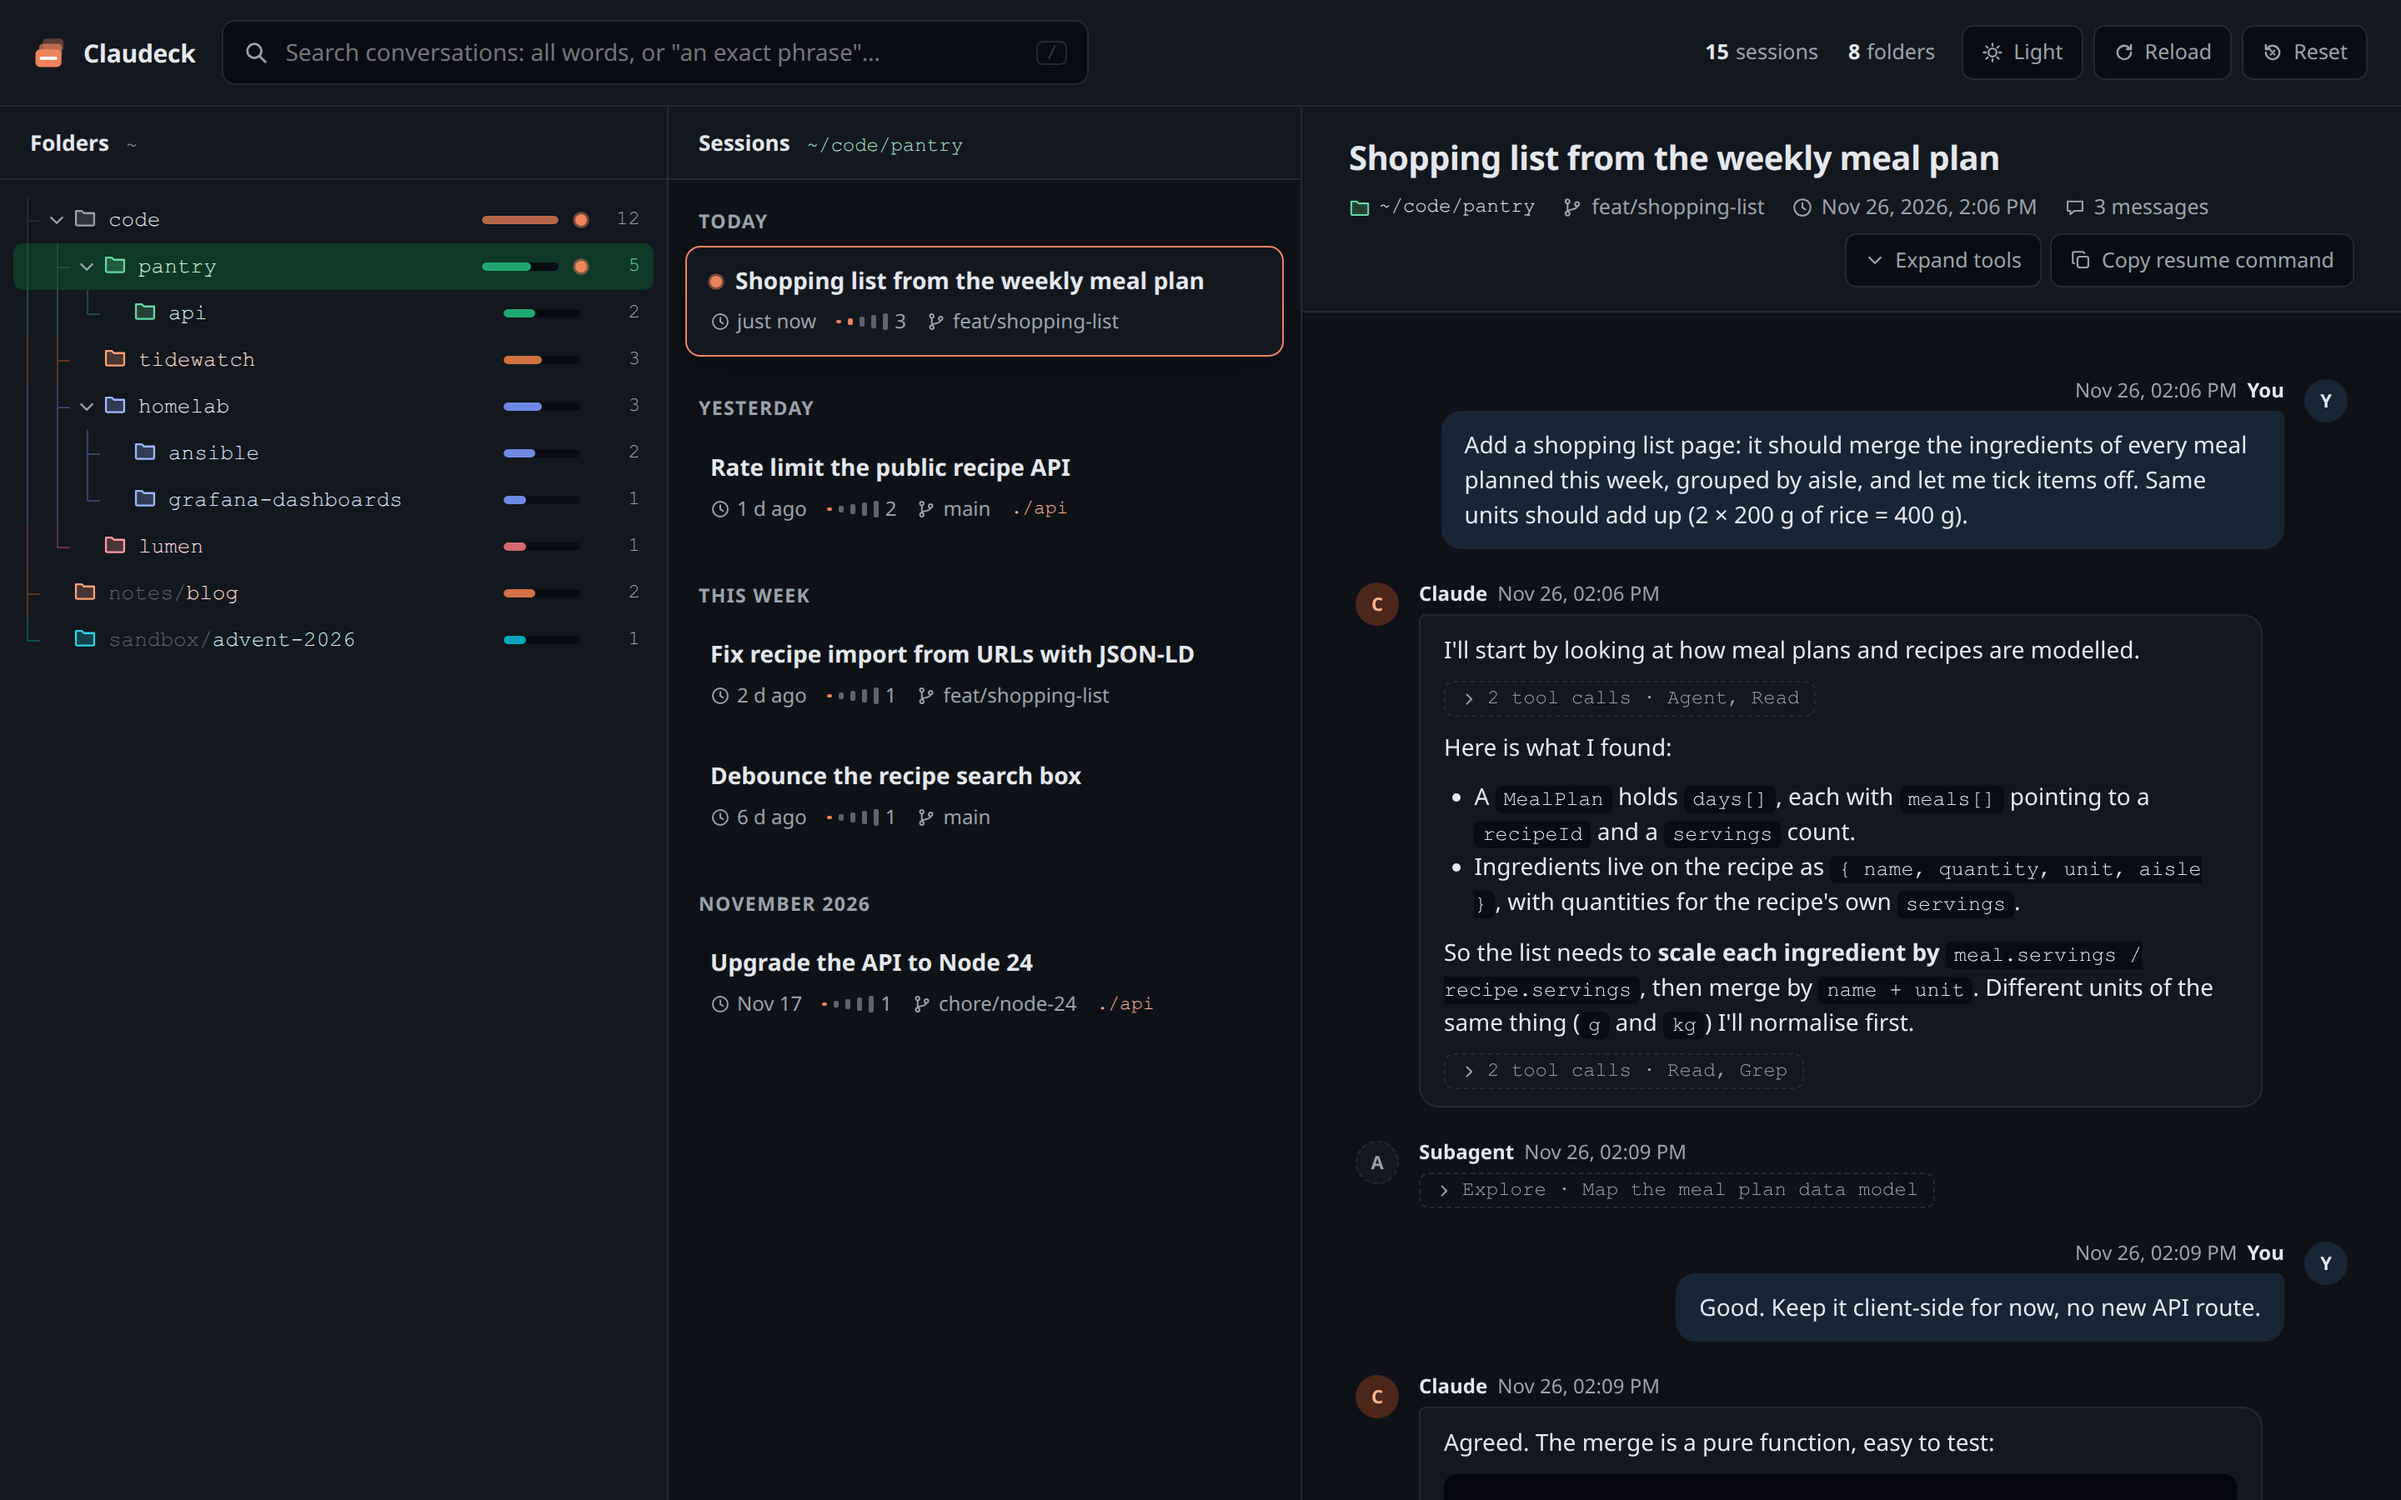
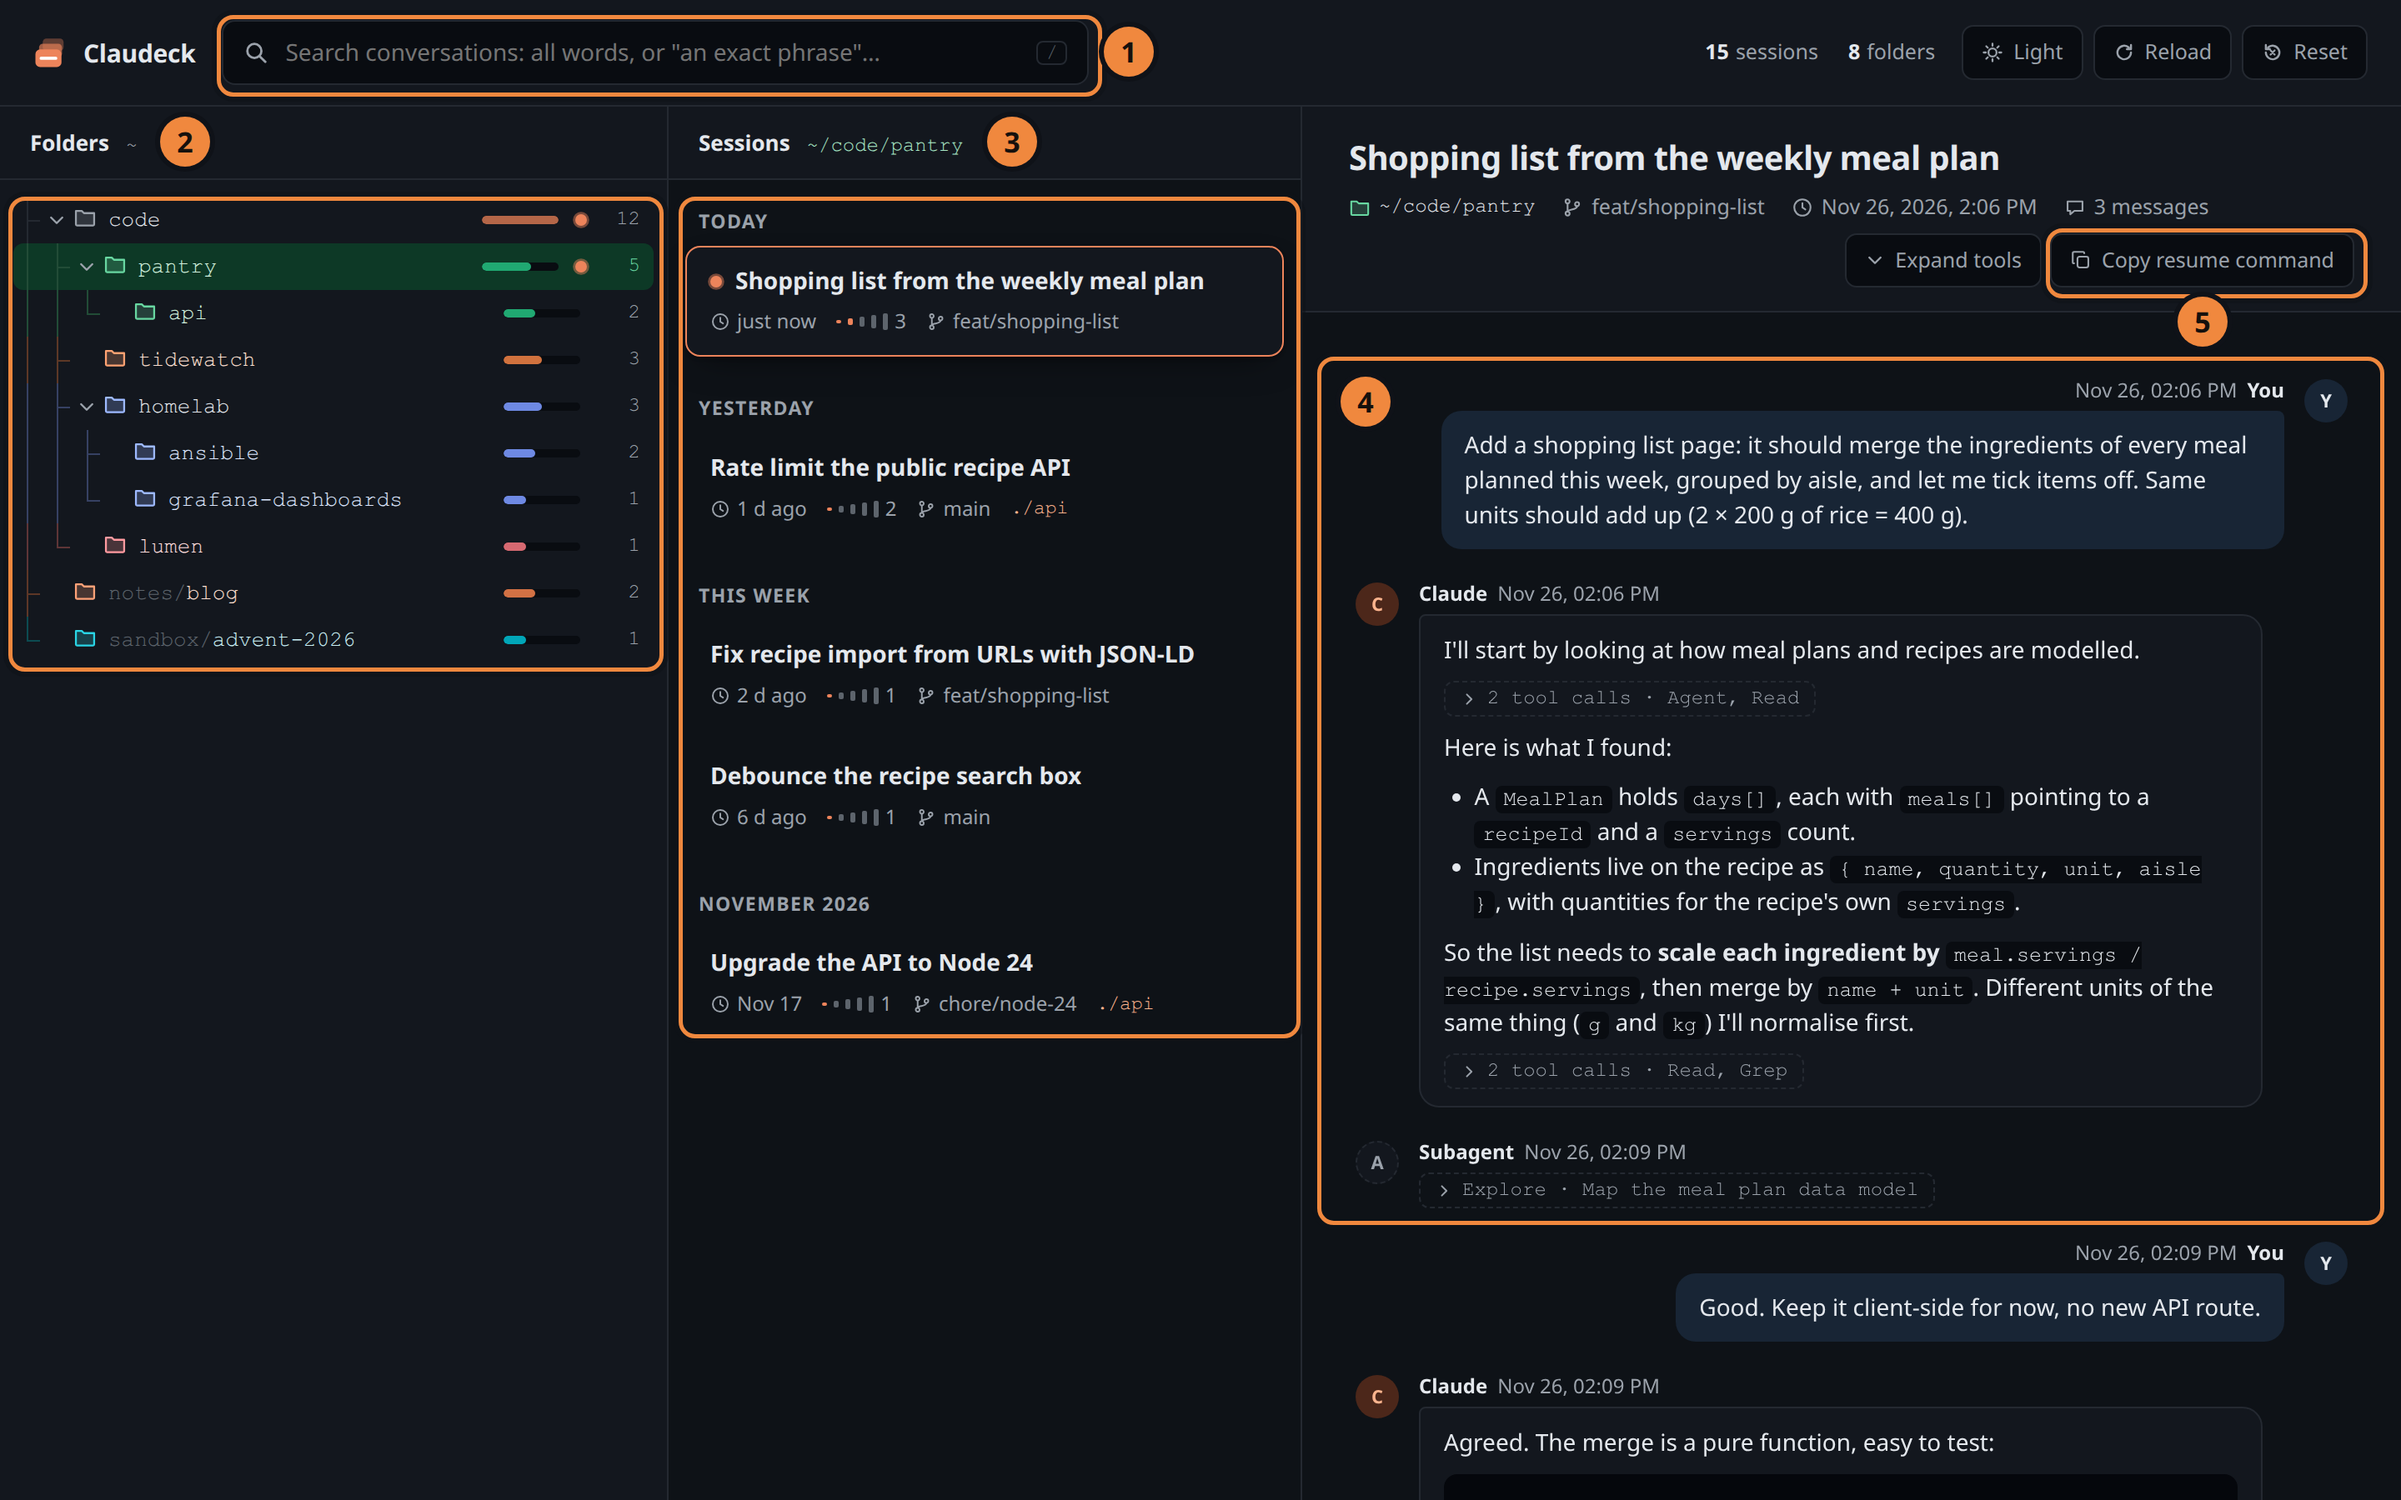
docs(readme): annotated overview screenshot with a short legend

diff --git a/README.md b/README.md
@@ -9,7 +9,13 @@ A read-only web view of your [Claude Code](https://code.claude.com/docs) session
 - Read transcripts with tool calls folded away
 - Copy the `claude --resume` command for any session
 
-[![Sessions grouped by folder, with a transcript open](docs/screenshots/overview.png)](docs/screenshots/overview.png?raw=true)
+[![Claudeck: search bar, folder tree, session list, transcript and resume button, numbered 1 to 5](docs/screenshots/overview.png)](docs/screenshots/overview.png?raw=true)
+
+1. **Search** every conversation, yours and Claude's.
+2. **Folders** where you ran Claude Code, with session counts. A dot marks one still running.
+3. **Sessions** in the selected folder, newest first.
+4. **Transcript**, with tool calls and subagents folded.
+5. **Copy the resume command** to pick the session up in your terminal.
 
 It only reads `~/.claude/projects` and never writes to it. It is one Python script and one HTML page, with no dependencies to install.
 
